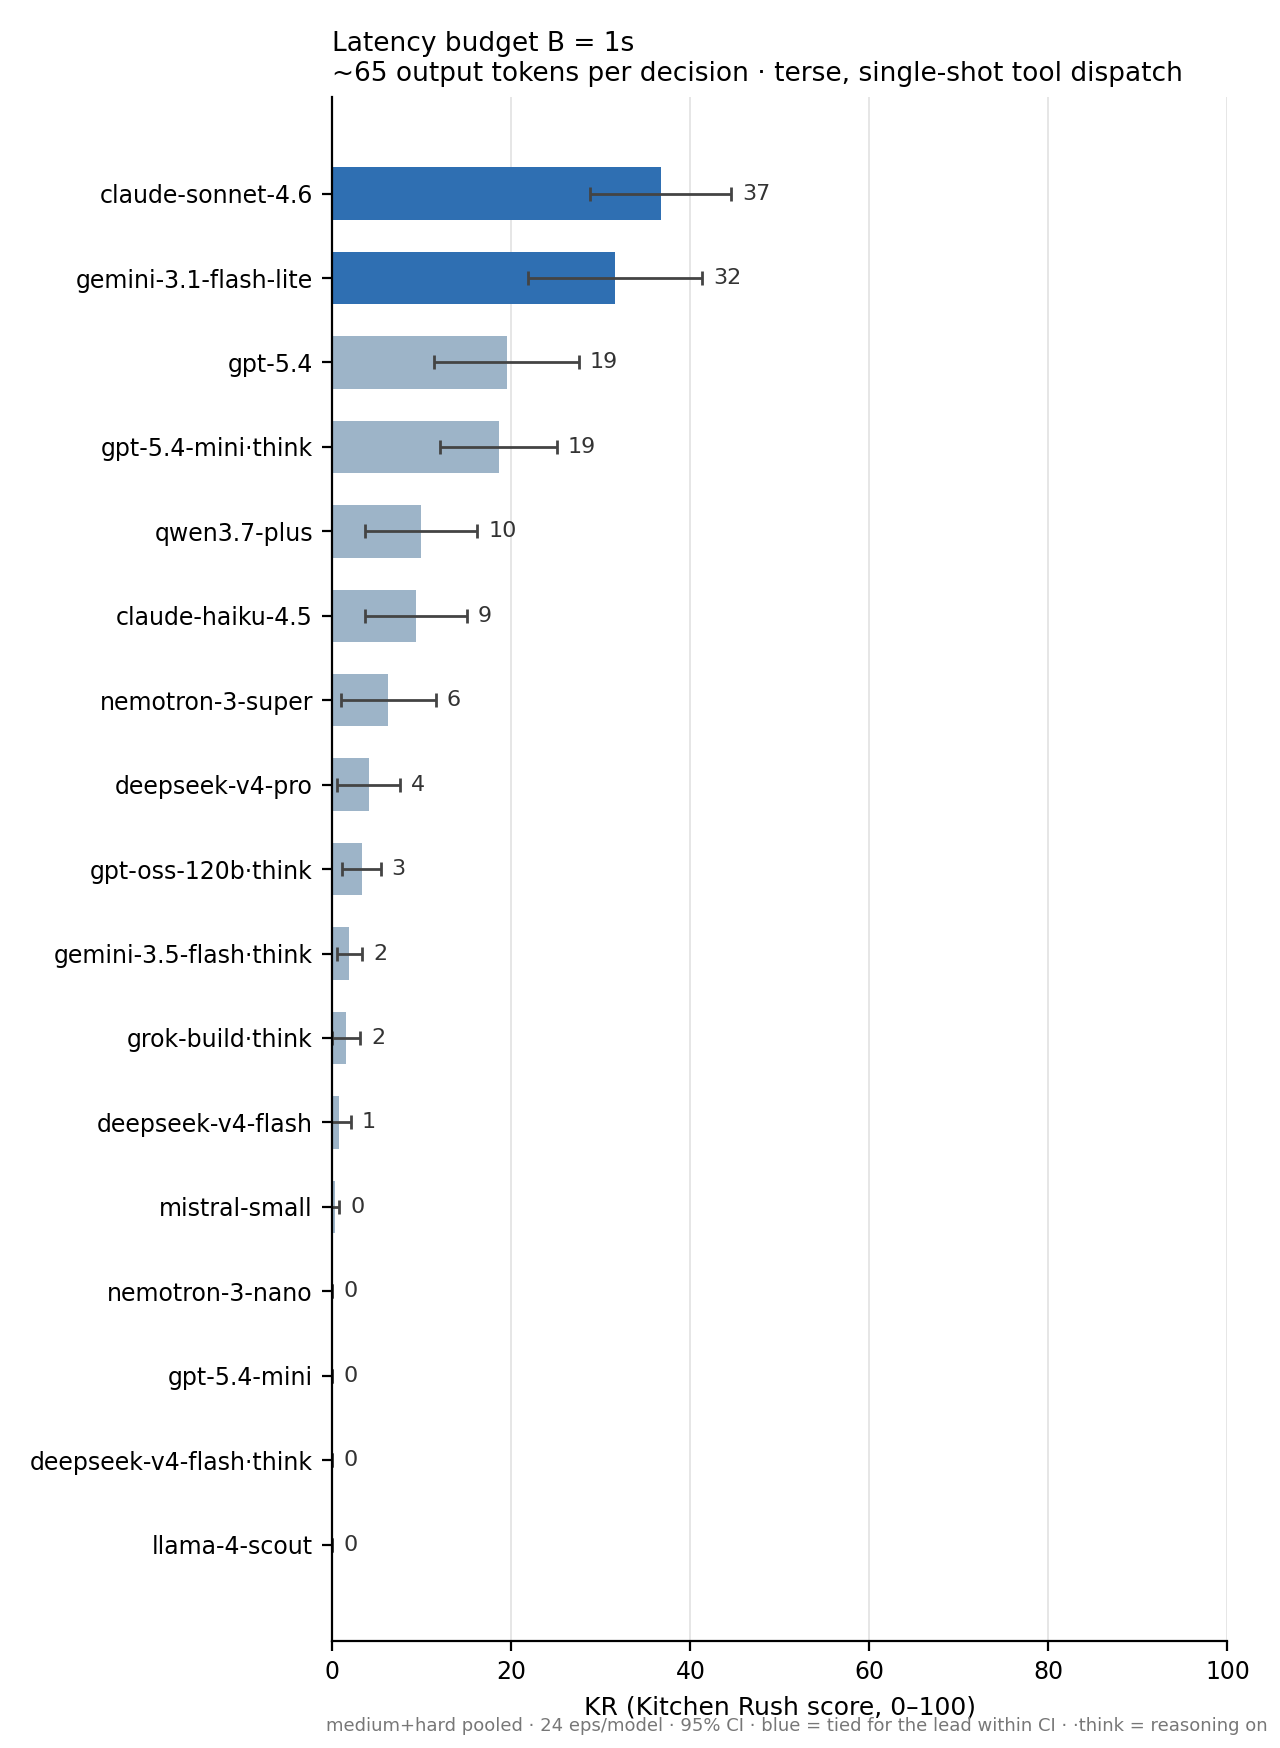
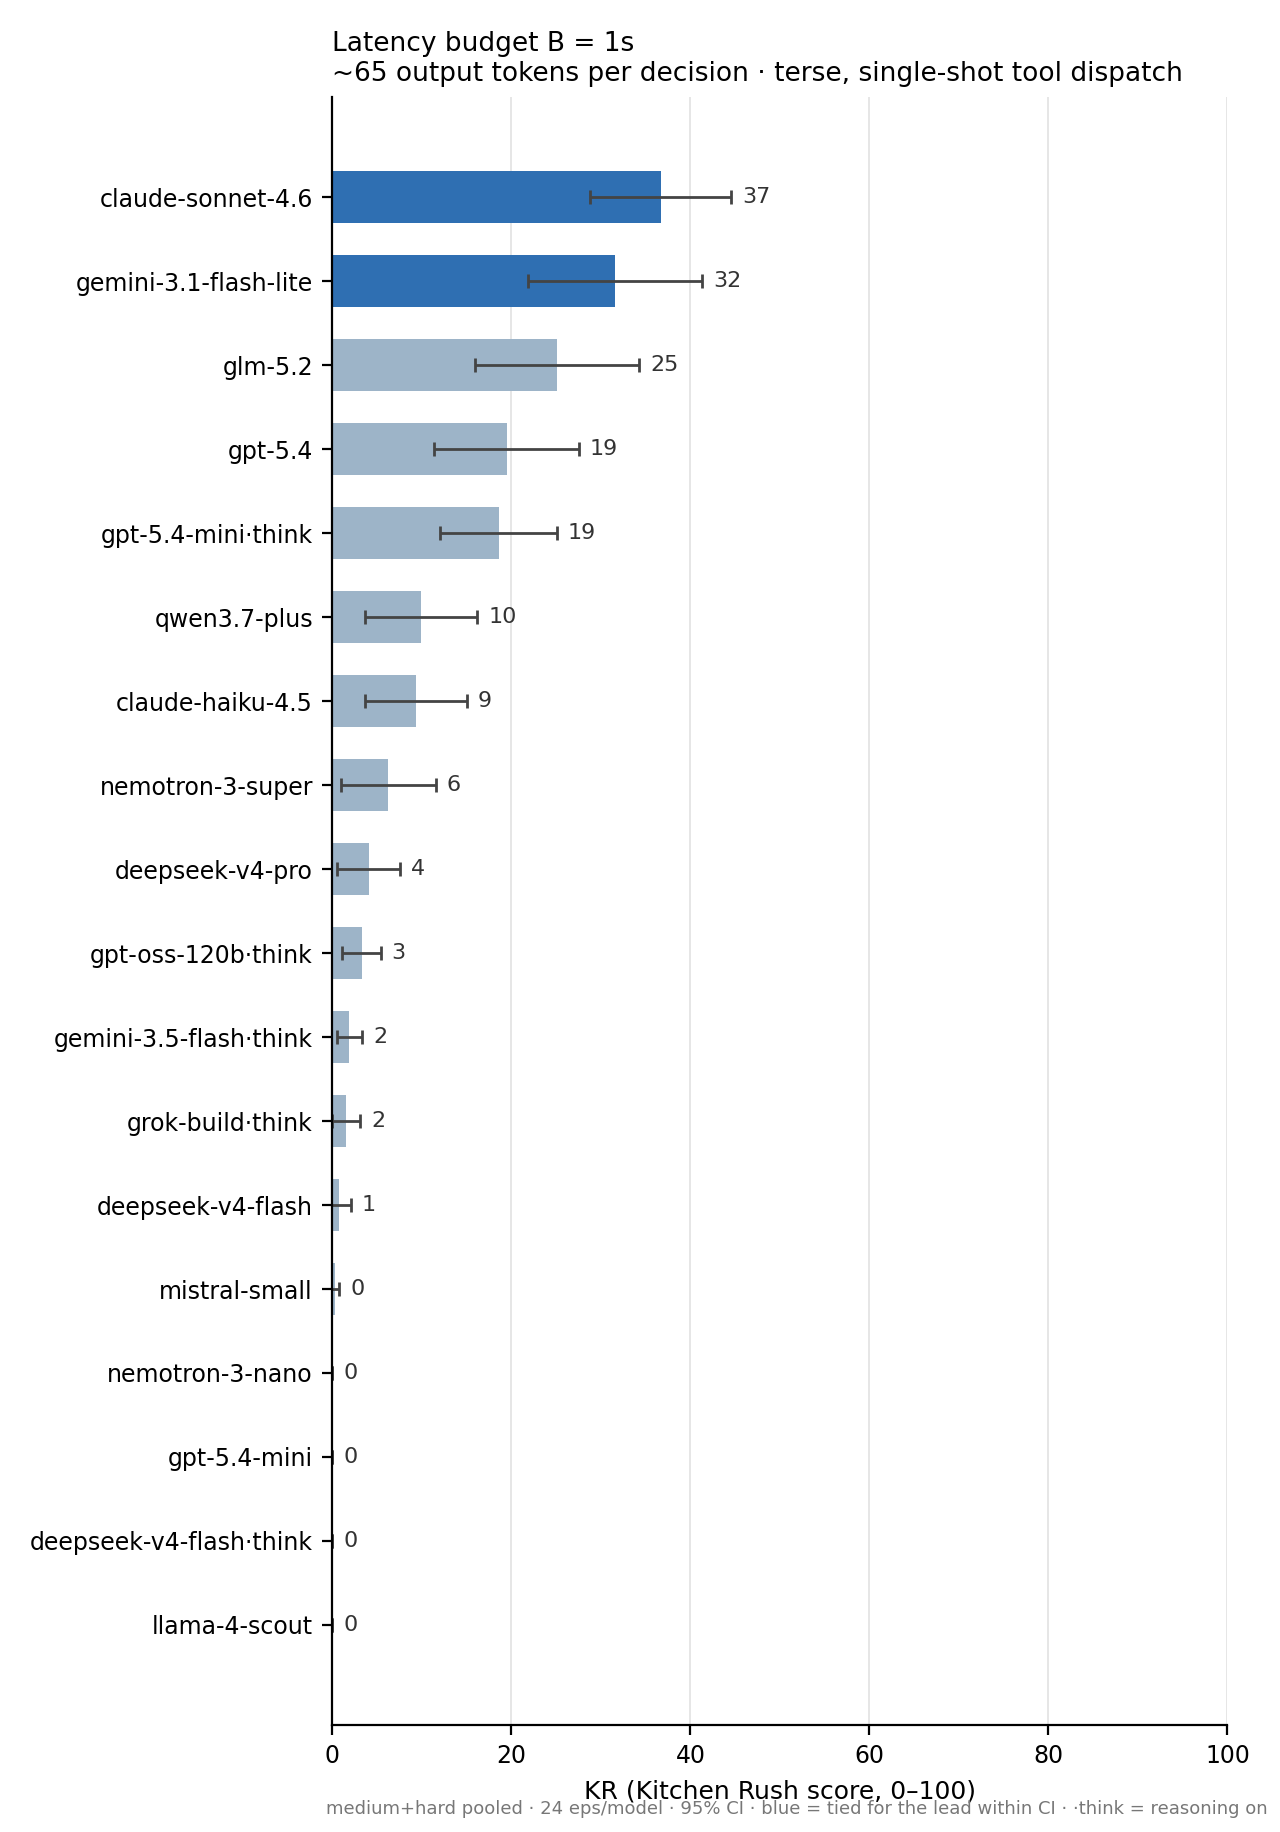
Add GLM 5.2 to the board (#2 overall, tied for lead at B=5)
GLM 5.2 (OpenRouter, reasoning off both budgets): KR̄ 32.9, 24 ep/budget.
Board now 18 configs / 864 episodes. Regenerated B1/B5 plots; README
counts + leaderboard prose updated. sweep.py: GLM price + glm-off/on panels.

diff --git a/scripts/sweep.py b/scripts/sweep.py
@@ -60,6 +60,8 @@ PRICES = {
     'nvidia/nemotron-3-nano-30b-a3b': (0.00000005, 0.0000002),
     'nvidia/nemotron-3-super-120b-a12b': (0.00000009, 0.00000045),
     'nvidia/nemotron-3-ultra-550b-a55b': (0.0000005, 0.0000025),
+    # Z.ai GLM 5.2 (OpenRouter list price, stamped 2026-06-18)
+    'z-ai/glm-5.2': (0.0000012, 0.0000032),
 }
 
 # Panel, ordered cheapest-first so the budget cap trims the most expensive tail if it binds.
@@ -103,6 +105,10 @@ PANELS = {
         ('nvidia/nemotron-3-super-120b-a12b', 'off', 'nemotron-3-super'),
         ('nvidia/nemotron-3-ultra-550b-a55b', 'off', 'nemotron-3-ultra'),
     ],
+    # GLM 5.2 single mixed row: reasoning OFF at B=1, LOW at B=5 (run separately, --budgets
+    # restricts each to its budget; same 'glm-5.2' label merges into one board row).
+    'glm-off': [('z-ai/glm-5.2', 'off', 'glm-5.2')],
+    'glm-on': [('z-ai/glm-5.2', 'on', 'glm-5.2')],
 }
 
 KEY_FOR_PROVIDER = {'openai': 'OPENAI_API_KEY', 'anthropic': 'ANTHROPIC_API_KEY'}

diff --git a/leaderboard/results/board.md b/leaderboard/results/board.md
@@ -1,25 +1,26 @@
 # Kitchen Rush — current leaderboard (gen 1.0)
 
-Ruleset `33034952fa7f` (gen 1.0, frozen) · tokenizer `tiktoken-cl100k_base-v1` · track RP (experimental β) · 816 episodes · total $122.30 · = [starter run](starter.md) + 2026-06-11 patch (gpt-5.4 family & haiku via direct keys, nemotron via OpenRouter)
+Ruleset `33034952fa7f` (gen 1.0, frozen) · tokenizer `tiktoken-cl100k_base-v1` · track RP (experimental β) · 864 episodes · total $128.31 · = [starter run](starter.md) + 2026-06-11 patch (gpt-5.4 family & haiku via direct keys, nemotron via OpenRouter) + 2026-06-18 GLM 5.2 (OpenRouter)
 
 KR = 100·clip((S−S_null)/(S_ref−S_null)), mean over seeds. `·think` = reasoning on (low effort). Not on the board: `gpt-5.4·think` (provider quota died mid-run — pending), `nemotron-3-ultra` (no tool_choice:required endpoint on OpenRouter), `gpt-oss-120b` reasoning-off (provider: reasoning is mandatory), `claude-sonnet-4.6·think†` (runs as a flagged deviation under tool_choice:auto since Anthropic forbids thinking with forced tool use — partially run, Anthropic credit died mid-config, pending completion).
 
 | # | model | har B1 | har B5 | med B1 | med B5 | KR̄ | ±95%CI | serve% | reason/ep | $ |
 |---|---|---|---|---|---|---|---|---|---|---|
 | 1 | claude-sonnet-4.6 | 37 | 37 | 36 | 52 | **40.6** | ±5.8 | 77% | 0 | 29.45 |
-| 2 | gpt-5.4-mini·think | 5 | 28 | 32 | 59 | **31.1** | ±5.0 | 77% | 14886 | 6.5 |
-| 3 | gemini-3.1-flash-lite | 26 | 22 | 37 | 20 | **26.3** | ±9.8 | 58% | 0 | 0.79 |
-| 4 | gpt-5.4 | 16 | 22 | 23 | 32 | **23.2** | ±7.9 | 71% | 0 | 15.43 |
-| 5 | qwen3.7-plus | 8 | 7 | 12 | 7 | **8.3** | ±4.3 | 44% | 0 | 2.32 |
-| 6 | claude-haiku-4.5 | 8 | 8 | 10 | 4 | **7.8** | ±4.2 | 36% | 0 | 6.74 |
-| 7 | deepseek-v4-pro | 2 | 10 | 6 | 13 | **7.8** | ±5.4 | 33% | 0 | 2.04 |
-| 8 | gpt-oss-120b·think | 0 | 4 | 6 | 18 | **7.1** | ±3.4 | 46% | 17301 | 0.42 |
-| 9 | nemotron-3-super | 1 | 0 | 12 | 8 | **5.1** | ±5.2 | 29% | 0 | 0.36 |
-| 10 | gemini-3.5-flash·think | 1 | 0 | 3 | 10 | **3.4** | ±3.2 | 33% | 31266 | 17.16 |
-| 11 | grok-build·think | 1 | 0 | 2 | 5 | **2.1** | ±1.9 | 10% | 64714 | 7.23 |
-| 12 | deepseek-v4-flash·think | 0 | 0 | 0 | 3 | **0.9** | ±1.8 | 13% | 0 | 0.46 |
-| 13 | deepseek-v4-flash | 0 | 0 | 1 | 0 | **0.4** | ±0.7 | 10% | 0 | 0.42 |
-| 14 | mistral-small | 0 | 0 | 0 | 1 | **0.3** | ±0.6 | 6% | 0 | 0.44 |
-| 15 | gpt-5.4-mini | 0 | 0 | 0 | 0 | **0.0** | ±0.0 | 14% | 0 | 5.98 |
-| 16 | llama-4-scout | 0 | 0 | 0 | 0 | **0.0** | ±0.0 | 7% | 0 | 0.57 |
-| 17 | nemotron-3-nano | 0 | 0 | 0 | 0 | **0.0** | ±0.0 | 0% | 0 | 0.17 |
+| 2 | glm-5.2 | 24 | 45 | 26 | 37 | **32.9** | ±8.4 | 75% | 0 | 6.01 |
+| 3 | gpt-5.4-mini·think | 5 | 28 | 32 | 59 | **31.1** | ±5.0 | 77% | 14886 | 6.5 |
+| 4 | gemini-3.1-flash-lite | 26 | 22 | 37 | 20 | **26.3** | ±9.8 | 58% | 0 | 0.79 |
+| 5 | gpt-5.4 | 16 | 22 | 23 | 32 | **23.2** | ±7.9 | 71% | 0 | 15.43 |
+| 6 | qwen3.7-plus | 8 | 7 | 12 | 7 | **8.3** | ±4.3 | 44% | 0 | 2.32 |
+| 7 | claude-haiku-4.5 | 8 | 8 | 10 | 4 | **7.8** | ±4.2 | 36% | 0 | 6.74 |
+| 8 | deepseek-v4-pro | 2 | 10 | 6 | 13 | **7.8** | ±5.4 | 33% | 0 | 2.04 |
+| 9 | gpt-oss-120b·think | 0 | 4 | 6 | 18 | **7.1** | ±3.4 | 46% | 17301 | 0.42 |
+| 10 | nemotron-3-super | 1 | 0 | 12 | 8 | **5.1** | ±5.2 | 29% | 0 | 0.36 |
+| 11 | gemini-3.5-flash·think | 1 | 0 | 3 | 10 | **3.4** | ±3.2 | 33% | 31266 | 17.16 |
+| 12 | grok-build·think | 1 | 0 | 2 | 5 | **2.1** | ±1.9 | 10% | 64714 | 7.23 |
+| 13 | deepseek-v4-flash·think | 0 | 0 | 0 | 3 | **0.9** | ±1.8 | 13% | 0 | 0.46 |
+| 14 | deepseek-v4-flash | 0 | 0 | 1 | 0 | **0.4** | ±0.7 | 10% | 0 | 0.42 |
+| 15 | mistral-small | 0 | 0 | 0 | 1 | **0.3** | ±0.6 | 6% | 0 | 0.44 |
+| 16 | gpt-5.4-mini | 0 | 0 | 0 | 0 | **0.0** | ±0.0 | 14% | 0 | 5.98 |
+| 17 | llama-4-scout | 0 | 0 | 0 | 0 | **0.0** | ±0.0 | 7% | 0 | 0.57 |
+| 18 | nemotron-3-nano | 0 | 0 | 0 | 0 | **0.0** | ±0.0 | 0% | 0 | 0.17 |

diff --git a/README.md b/README.md
@@ -90,7 +90,7 @@ two boards, and that reordering is precisely what the benchmark is for.
 
 ## Leaderboard
 
-17 model configurations × 12 seeds × {medium, hard} kitchens × two latency budgets — 816
+18 model configurations × 12 seeds × {medium, hard} kitchens × two latency budgets — 864
 episodes so far. Each chart is one latency budget; bars are mean KR, whiskers are 95%
 confidence intervals. The full per-tier table (with costs, reasoning tokens, and serve rates)
 is at [leaderboard/results/board.md](leaderboard/results/board.md).
@@ -113,7 +113,10 @@ reorders: `gpt-5.4-mini` with low reasoning rockets from near-zero to a **dead h
 sonnet (44 vs 44) at about a fifth of the cost**, while flash-lite *drops* to half its B=1
 standing. The same mini with reasoning fully off scores 0.0 at both budgets — reasoning it
 can't afford at B=1 is exactly what makes it a frontier-level tool caller at B=5. That's the
-latency tax, made visible. (`·think` rows ran with reasoning on at low effort; everything
+latency tax, made visible. One model gets there on decisiveness alone: `glm-5.2` runs
+reasoning-off and still finishes second overall, tying sonnet and the mini for the lead at
+B=5 (41 to their 44, with overlapping CIs) — strong tool dispatch without spending a token on
+thinking. (`·think` rows ran with reasoning on at low effort; everything
 else with reasoning off — fast single-shot dispatch is the honest realtime default. One row
 you might expect is missing: there is no `claude-sonnet-4.6·think`, because Anthropic's API
 does not allow extended thinking when tool calls are forced, and the harness forces tool